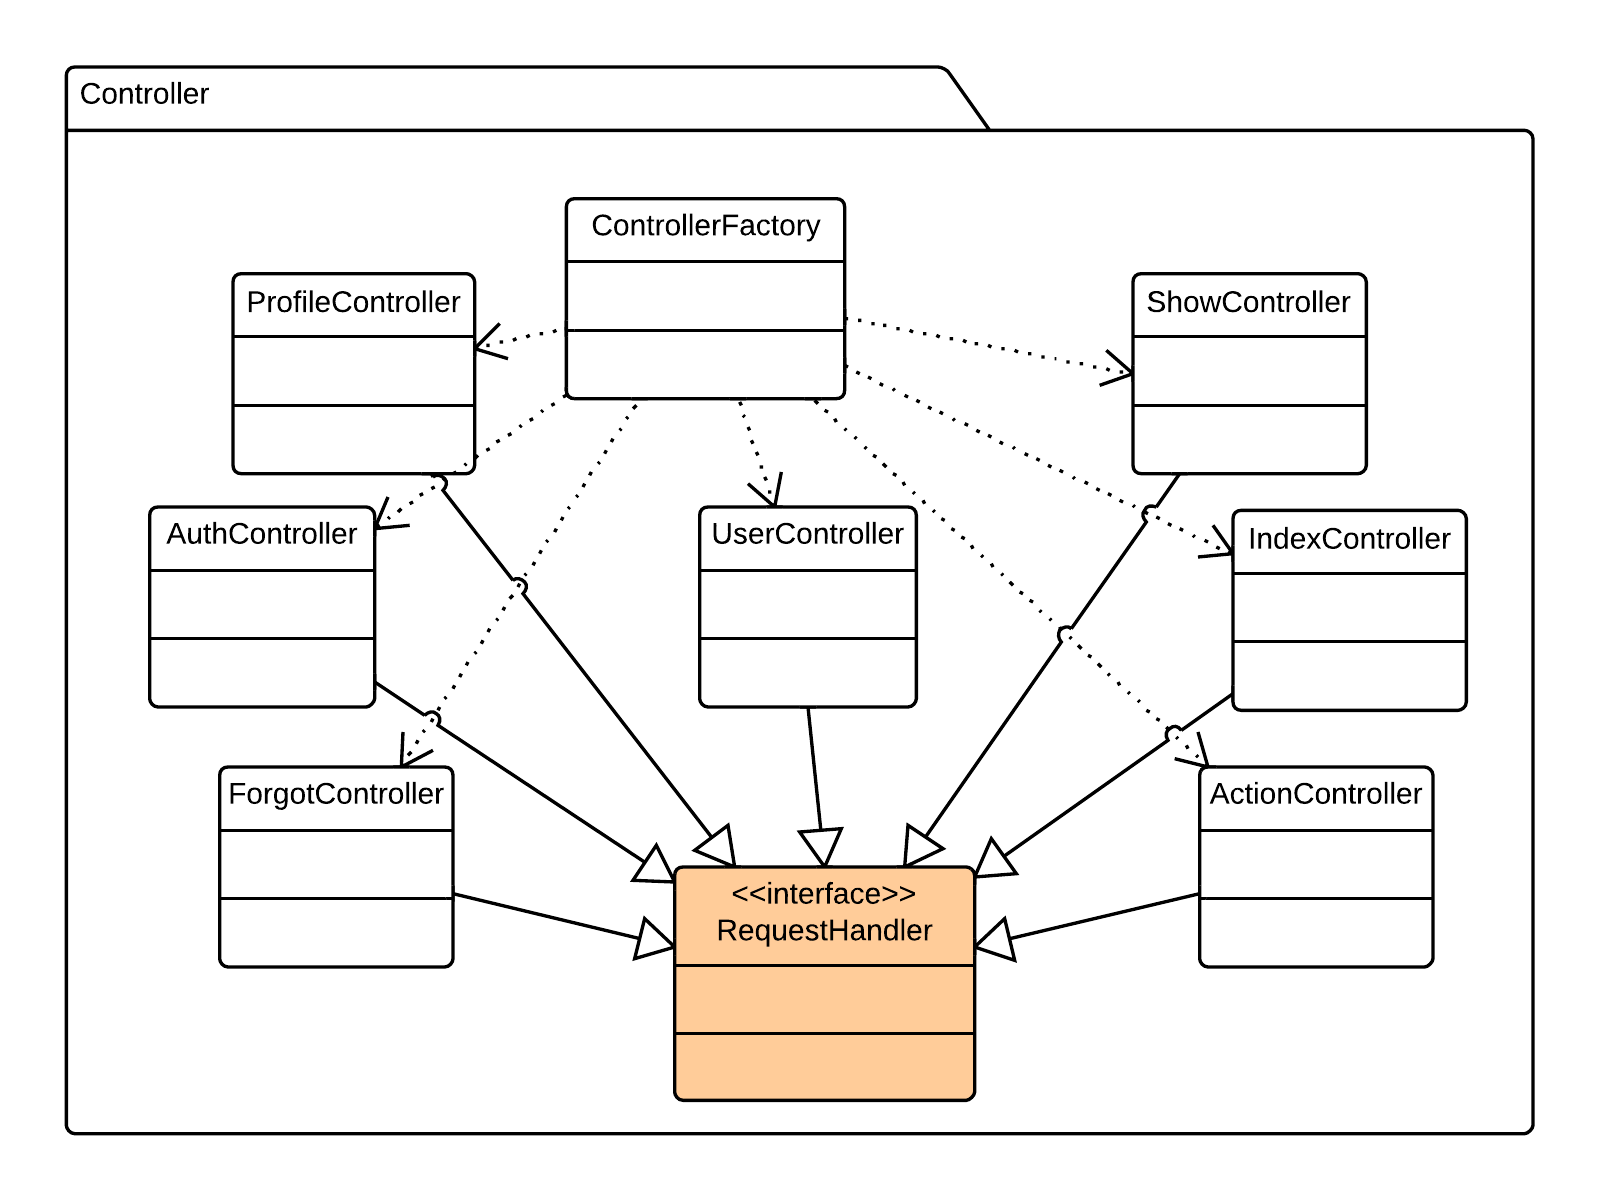
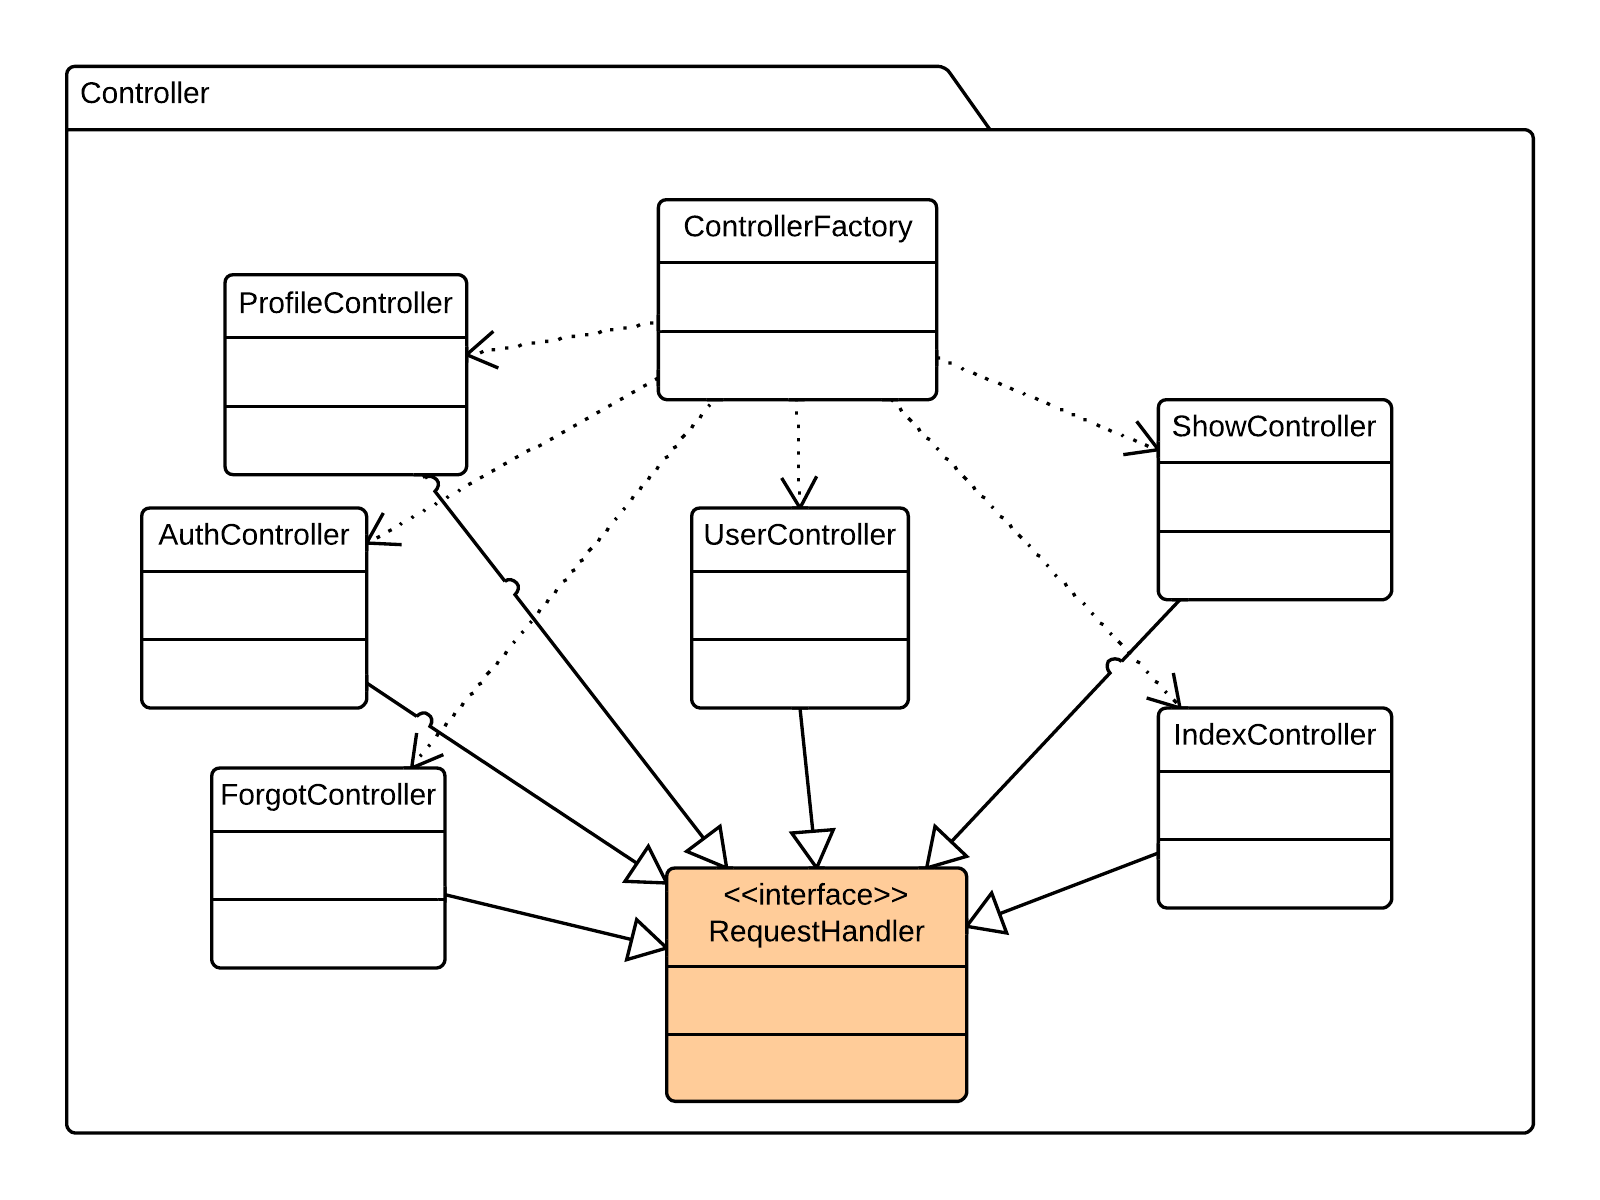
Tolta la classe Back-End::Lib::Controller::ActionController

diff --git a/documenti/SpecificaTecnica/frontend-packages.tex b/documenti/SpecificaTecnica/frontend-packages.tex
@@ -13,16 +13,16 @@
     \end{itemize} 
     \subparagraph{Package contenuti} 
     \begin{itemize}
-        \item Front-end::Controllers
-        \item Front-end::Services
-        \item Front-end::Model
+        \item Controllers
+        \item Services
+        \item Model
     \end{itemize}
-  \subsubsection{Front-end::Controllers}
+  \subsubsection{Controllers}
   \paragraph{Informazioni sul package}
     \begin{figure}[H] 
       \begin{center} 
         \includegraphics[width=\textwidth]{packages/Front-end::Controllers.png}  
-        \caption{Componente Front-end::Controllers}
+        \caption{Componente Controllers}
       \end{center}  
     \end{figure} 
   \subparagraph{Descrizione} 
@@ -150,12 +150,12 @@
           \begin{itemize}
             \item[] Utilizza la classe \texttt{Front-End::Services::DocumentService} per popolare correttamente la classe \texttt{Front-End::Model::DocumentModel}, la quale fornirà un metodo accessorio attraverso il quale il controller può ottenere i dati e generare la pagina popolando correttamente lo scope.
           \end{itemize}
-  \subsubsection{Front-end::Services}
+  \subsubsection{Services}
   \paragraph{Informazioni sul package}
     \begin{figure}[H] 
       \begin{center} 
         \includegraphics[width=\textwidth]{packages/Front-end::Services.png}  
-        \caption{Componente Front-end::Services}
+        \caption{Componente Services}
       \end{center}  
     \end{figure} 
   \subparagraph{Descrizione} 
@@ -284,12 +284,12 @@ Tali funzionalità richiedono che l'utente sia un admin.
           \begin{itemize}
               \item{Front-end::Model::UserModel}
           \end{itemize}
-  \subsubsection{Front-end::Model}
+  \subsubsection{Model}
   \paragraph{Informazioni sul package}
     \begin{figure}[H] 
       \begin{center} 
         \includegraphics[width=\textwidth]{packages/Front-end::Model.png}  
-        \caption{Componente Front-end::Model}
+        \caption{Componente Model}
       \end{center}  
     \end{figure} 
   \subparagraph{Descrizione} 
